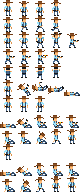
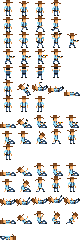
added free fall and tumble animations

diff --git a/src/engine/TrainCowboys.ts b/src/engine/TrainCowboys.ts
@@ -8,6 +8,7 @@ import { Sprite } from './Sprite';
 import { getNextHorizonalMovePlacement, getNextHorizontalBumpPlacement, getNextVerticalPlacement, posFromGrid } from './utils';
 import { Train } from './Train';
 import { Direction } from './direction';
+import { Placement } from './Placement';
 
 export type GameStatus = 'ongoing' | 'win' | 'draw';
 
@@ -115,19 +116,63 @@ export class TrainCowboys {
     return this._players.filter(p => p !== notThis);
   }
 
+  private playerInDeathZone(player: Player) {
+    const placement = this._train.getAllPlacements().find(p => p.globalGridPos.equals(player.globalGridPos))!;
+    return this._train.isInDeathZone(placement);
+  }
+
+  private async animateFallingFromTrain(player: Player) {
+    // TODO: groudY might be static for drawing the tracks?
+    const groundY = this._train.getEngine().getBottomLeftPlacement().globalGridPos.y + 1;
+    player.playAnimation('FREE_FALL');
+    const fallTo = new Vec2(player.globalGridPos.x, groundY);
+    await this._engine.moveToGrid(player, fallTo, 250);
+
+    player.direction = 'left';
+    player.playAnimation('TUMBLE', true);
+    await this._engine.moveToGrid(player, new Vec2(30, groundY), 1000);
+  }
+
   // ============ actions ===============
   async move() {
     const player = this.curPlayer;
 
-    if (player.isStunned) {
-      await this.standup(player);
+    if (this.playerInDeathZone(player)) {
+      await this.animateFallingFromTrain(player);
+      // TODO: kill/remove the player
       this.nextPlayer();
       return;
     }
 
+    if (player)
+      if (player.isStunned) {
+        await this.standup(player);
+        this.nextPlayer();
+        return;
+      }
+
     // determine new position
     const nextPlacement = getNextHorizonalMovePlacement(this._train, player.globalGridPos, player.direction);
 
+    if (this._train.isInDeathZone(nextPlacement)) {
+      await this.moveUnsafe(player, nextPlacement);
+    } else {
+      await this.moveSafe(player, nextPlacement);
+    }
+  }
+
+  private async moveUnsafe(player: Player, nextPlacement: Placement) {
+    // play falling animation
+    player.changeDirection();
+    player.playAnimation('FALL', true);
+    // this prevents players from being shot while in mid air
+    player.isStunned = true;
+    await this._engine.moveToGrid(player, nextPlacement.globalGridPos, 500);
+    player.playAnimation('FREE_FALL');
+    this.nextPlayer();
+  }
+
+  private async moveSafe(player: Player, nextPlacement: Placement) {
     // move player
     player.playAnimation('WALK');
     await this._engine.moveToGrid(player, nextPlacement.globalGridPos, 500);
@@ -193,9 +238,7 @@ export class TrainCowboys {
 
     player.playAnimation('TURN_FROM', true);
     await delay(500);
-    console.log(player.direction);
     player.changeDirection();
-    console.log(player.direction);
     player.playAnimation('IDLE');
     this.nextPlayer();
   }
@@ -213,8 +256,7 @@ export class TrainCowboys {
 
     const curGrid = player.globalGridPos;
     const placements = this._train.getAllPlacements();
-    // TODO: need to iron out the movement required here
-    // is it your closest side? What if you are in the middle?
+    // TODO: move player so back is against car divider
     const nextPlacement = getNextVerticalPlacement(placements, curGrid);
 
     // TODO: move in the x direction to the ladder
@@ -285,7 +327,7 @@ export class TrainCowboys {
   async horse() {
     const player = this.curPlayer;
 
-    if (player.isStunned) {
+    if (!this.playerInDeathZone(player) && player.isStunned) {
       await this.standup(player);
       this.nextPlayer();
       return;
@@ -295,7 +337,9 @@ export class TrainCowboys {
     // TODO: this movement will become a path below the train
     await this._engine.moveToGrid(player, placement.globalGridPos, 1000);
     // TODO: animations -- fall -- horse mount -- horse ride -- horse dismount
-    player.direction = 'right';
+    player.direction = 'left';
+    player.isStunned = false;
+    player.playAnimation('IDLE');
   }
 
   private async tryBump(bumper: Player, gridPos: Vec2, direction: Direction) {

diff --git a/src/engine/Player.ts b/src/engine/Player.ts
@@ -19,7 +19,7 @@ export class Player extends GameObject {
   private _sprite: Sprite;
   private _indicator: SpriteCircle;
 
-  public direction: Direction = 'right';
+  public direction: Direction = 'left';
   public id: string;
   public isAlive = true;
   public isStunned = false;
@@ -39,7 +39,7 @@ export class Player extends GameObject {
       resource: Resources.player,
       frameSize: new Vec2(16, 16),
       hFrames: 5,
-      vFrames: 25,
+      vFrames: 30,
       frame: 0,
       animationPlayer: new AnimationPlayer(animationPlayerConfig)
     });
@@ -67,6 +67,10 @@ export class Player extends GameObject {
 
   playAnimation(base: PlayerAnimationBaseName, once = false) {
     const key = `${base}_${this.direction.toUpperCase()}` as PlayerAnimationName;
+    this.playAnimationByKey(key, once);
+  }
+
+  playAnimationByKey(key: PlayerAnimationName, once = false) {
     this._sprite.animationPlayer?.play({
       key,
       once

diff --git a/src/engine/animations/playerAnimations.ts b/src/engine/animations/playerAnimations.ts
@@ -33,7 +33,7 @@ const range = (first: number, last: number): number[] => {
 };
 
 // frame offset for varient
-const MIRROR_OFFSET = 12 * 5;
+const MIRROR_OFFSET = 15 * 5;
 
 type MirroredAnimationDefinition<T extends string> = Required<{
   [key in `${T}_RIGHT` | `${T}_LEFT`]: AnimationDefinition;
@@ -57,7 +57,9 @@ export const PlayerAnimations = {
   ...buildMirroredEqualFrames('FALL', range(25, 29), 500),
   ...buildMirroredEqualFrames('TURN_FROM', range(30, 32), 500),
   ...buildMirroredEqualFrames('REFLEX', range(35, 45), 1500),
-  ...buildMirroredEqualFrames('STAND', range(50, 59), 1500)
+  ...buildMirroredEqualFrames('STAND', range(50, 59), 1500),
+  ...buildMirroredEqualFrames('FREE_FALL', range(60, 64), 1000),
+  ...buildMirroredEqualFrames('TUMBLE', range(65, 70), 500)
 };
 
 export type PlayerAnimationName = keyof typeof PlayerAnimations;

diff --git a/src/engine/utils.ts b/src/engine/utils.ts
@@ -43,3 +43,4 @@ export const getNextHorizonalMovePlacement = (train: Train, curGridPos: Vec2, di
 export const getNextVerticalPlacement = (placements: Placement[], curGridPos: Vec2) => {
   return placements.find(p => p.globalGridPos.x === curGridPos.x && p.globalGridPos.y !== curGridPos.y)!;
 };
+
